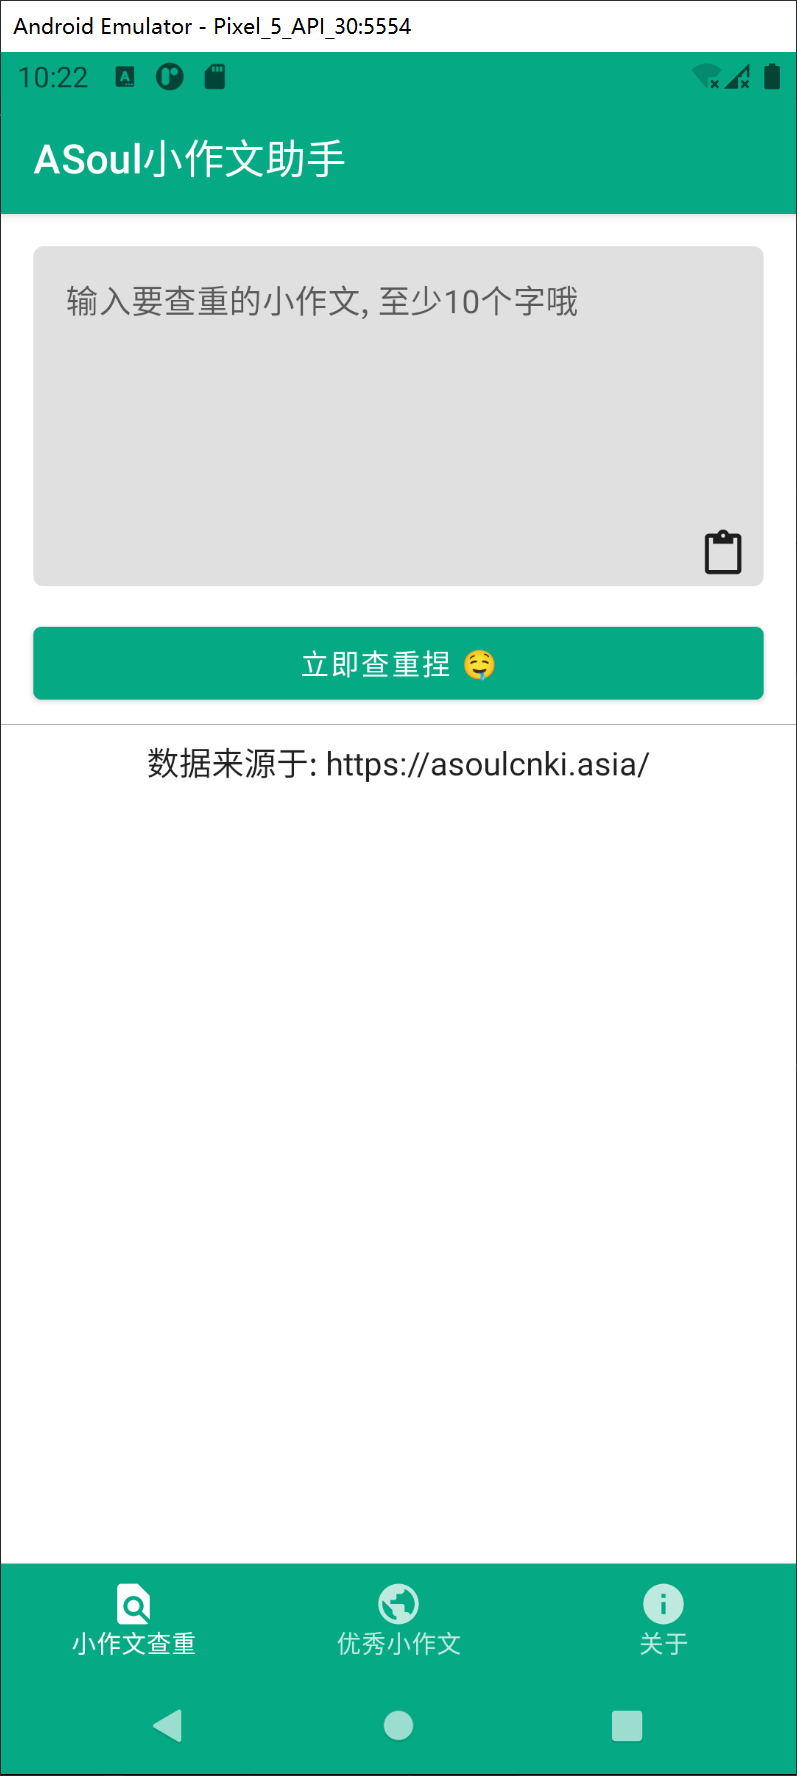
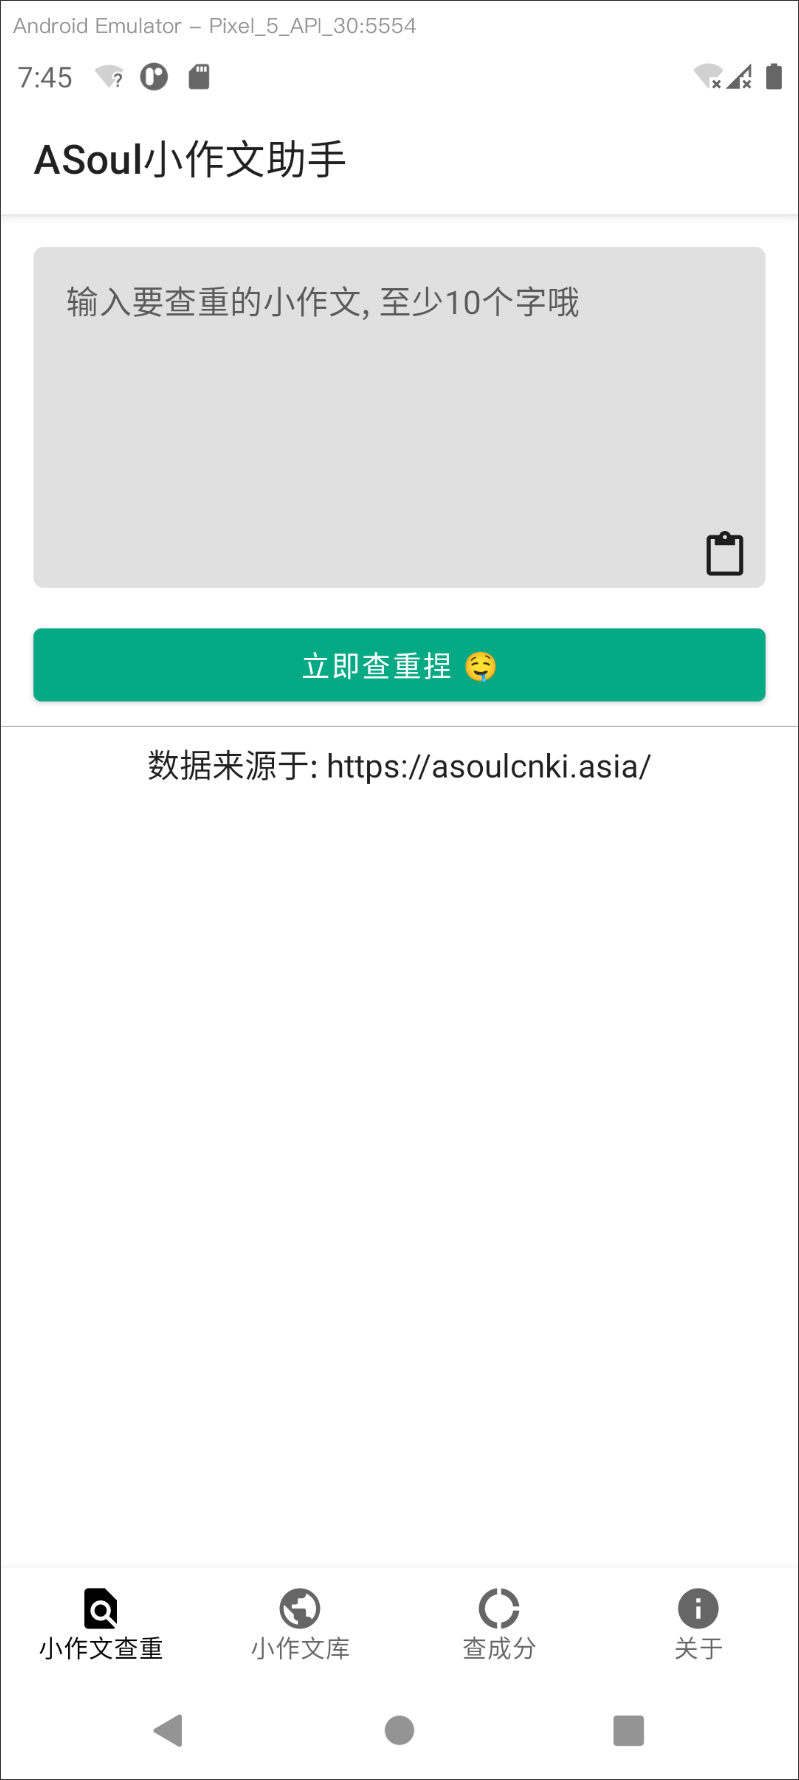
docs: 更新截图

diff --git a/README.md b/README.md
@@ -25,7 +25,7 @@ A-SOUL是乐华娱乐于2020年11月23日公开的其旗下首个虚拟偶像团
 * Paging3 - 列表数据加载库
 
 ## 截图 🎞
-| 查重 | 小作文库 | 关于 |
+| 查重 | 小作文库 | 查成分 |
 | ----- | ------| ------|
-| <img src="screenshots/query.png" align="left" height="400">| <img src="screenshots/zuowen.png" align="left" height="400">| <img src="screenshots/about.png" align="left" height="400"> |
+| <img src="screenshots/query.png" align="left" height="400">| <img src="screenshots/zuowen.png" align="left" height="400">| <img src="screenshots/chengfen.png" align="left" height="400"> |
 
